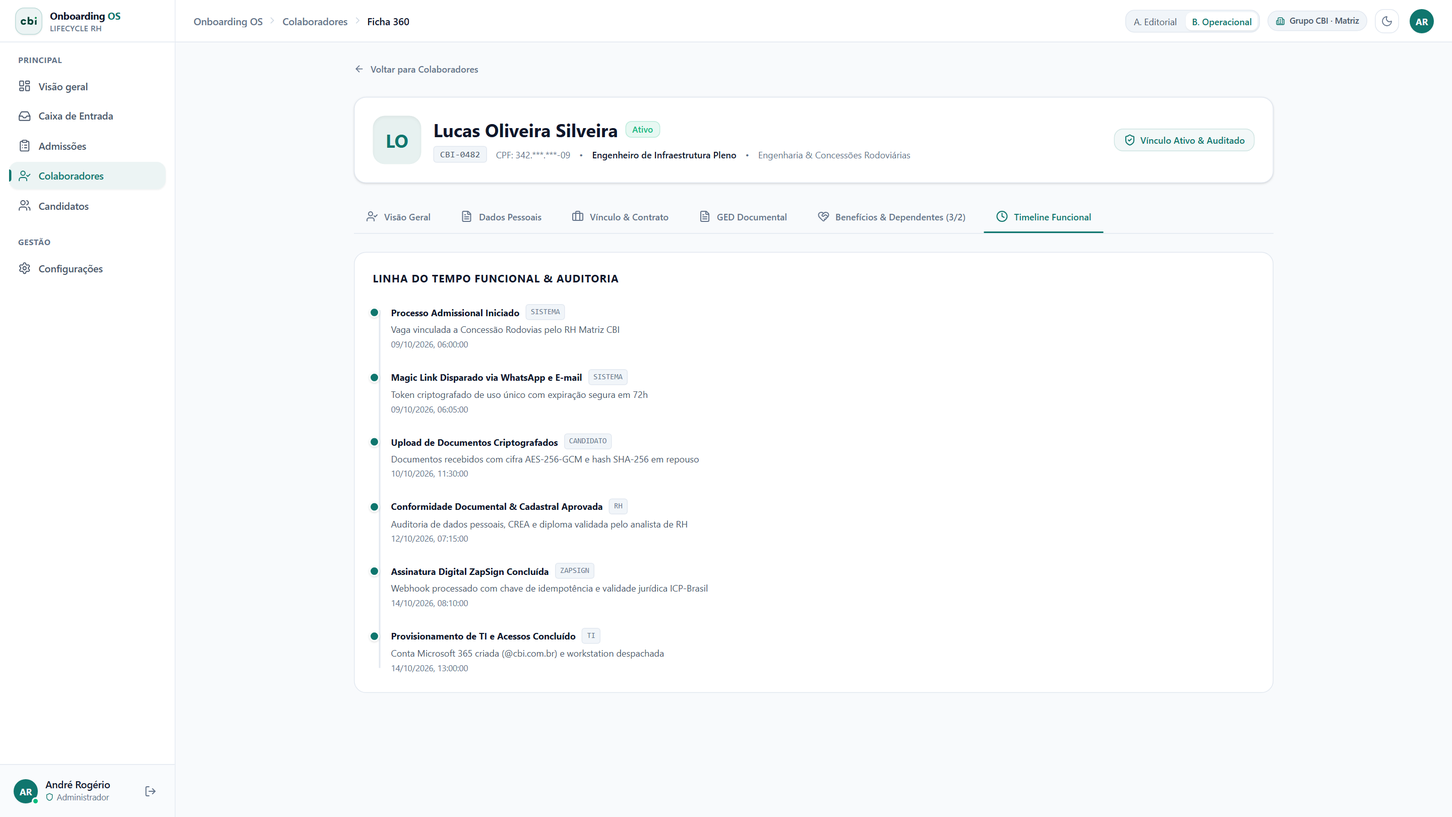
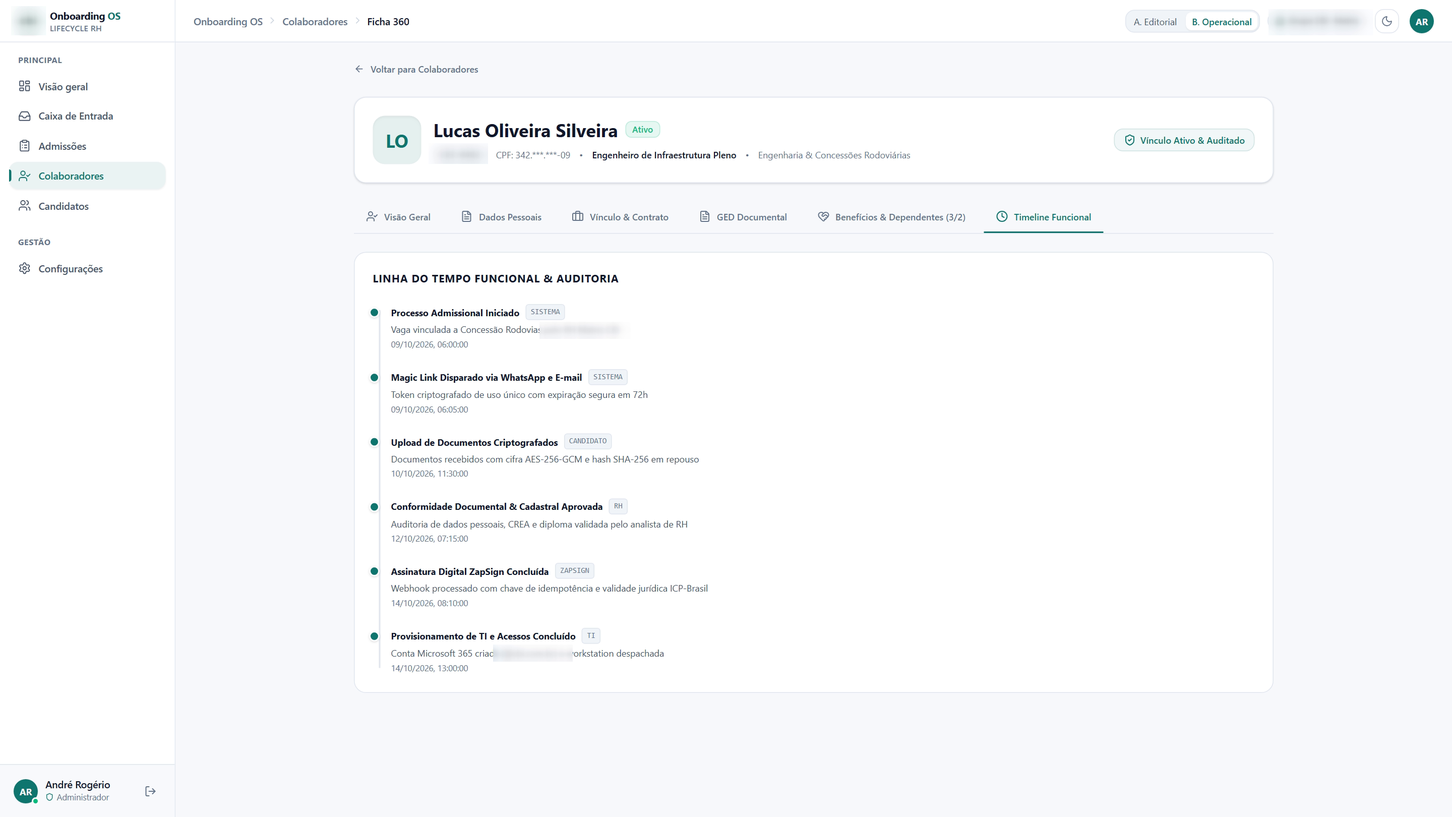
Refine portfolio: verified research/specialization, blurred client names, real mobile UIs for Lifecycle OS and Cribum, remove fake FundiVR frames

diff --git a/index.html b/index.html
@@ -84,6 +84,27 @@
             </div>
         </section>
 
+        <!-- SPECIALIZATION & RESEARCH BAR -->
+        <section id="academic" class="credentials-strip">
+            <div class="container">
+                <div class="credentials-label" data-i18n="acad_label">SPECIALIZATION &amp; APPLIED RESEARCH</div>
+                <div class="credentials-grid">
+                    <div class="credential-pill">
+                        <strong data-i18n="acad_1_title">Digital Twins, 5G, AI, IoT &amp; XR (360h)</strong>
+                        <span data-i18n="acad_1_desc">Specialization completed with 1 of 20 national merit scholarships (MCTI / Softex / UniFacens).</span>
+                    </div>
+                    <div class="credential-pill">
+                        <strong data-i18n="acad_2_title">ICT Technological Residency (TIC 51)</strong>
+                        <span data-i18n="acad_2_desc">Resident Researcher in Smart Cities, Industrial Digital Twins &amp; Acoustic Sensing (UniFacens / MCTI).</span>
+                    </div>
+                    <div class="credential-pill">
+                        <strong data-i18n="acad_3_title">Cognitive Computing Research &amp; Campus Mobile</strong>
+                        <span data-i18n="acad_3_desc">Memory Lens semantic research (Prof. Dr. Fabrício Londero, UniFacens) &bull; Cribum selected for Campus Mobile (Poli-USP / Instituto Claro).</span>
+                    </div>
+                </div>
+            </div>
+        </section>
+
         <!-- PROFILE INTRO SECTION -->
         <section id="profile" class="profile-intro-section">
             <div class="container">
@@ -209,10 +230,10 @@
                     <div class="project-card">
                         <div class="card-inner">
                             <div class="dossier-tab-header">
-                                <span class="dossier-code">📁 DOSSIER // CRIBUM-AUDITRX</span>
-                                <span class="stamp-badge" style="border-color: #ED1C24; color: #ED1C24;">AMD ROCm &middot; AI DEFENSE</span>
+                                <span class="dossier-code">📁 DOSSIER // CRIBUM</span>
+                                <span class="stamp-badge" style="border-color: #10B981; color: #10B981;">CAMPUS MOBILE &middot; POLI-USP</span>
                             </div>
-                            <h4>CRIBUM (AUDITRX)</h4>
+                            <h4>CRIBUM (CLINICAL AI SUITE)</h4>
                             
                             <!-- Interactive Visual Showcase -->
                             <div class="project-visual-preview">
@@ -223,16 +244,18 @@
                                         <span data-i18n="expand_click">Click to expand</span>
                                     </div>
                                 </div>
-                                <div class="preview-thumbs thumbs-3">
-                                    <img src="assets/cribum_audit_dashboard.png" alt="Prescription Inspection" class="thumb-mini active" onclick="window.selectGalleryItemCustom('cribum', 0)" title="Multimodal Prescription Inspection & Confidence Bounding Boxes">
-                                    <img src="assets/cribum_graph_networkx.png" alt="Relational Fraud Graph" class="thumb-mini" onclick="window.selectGalleryItemCustom('cribum', 1)" title="Relational Fraud Multigraph & Anomaly Detection (NetworkX)">
-                                    <img src="assets/cribum_demo.gif" alt="Cribum Workflow Demo" class="thumb-mini" onclick="window.selectGalleryItemCustom('cribum', 2)" title="Multi-Agent Audit & Graph Investigation Walkthrough">
+                                <div class="preview-thumbs thumbs-5">
+                                    <img src="assets/cribum_audit_dashboard.png" alt="Prescription Inspection" class="thumb-mini active" onclick="window.selectGalleryItemCustom('cribum', 0)" title="Desktop: Multimodal Prescription Inspection & Confidence Bounding Boxes">
+                                    <img src="assets/cribum_graph_networkx.png" alt="Relational Fraud Graph" class="thumb-mini" onclick="window.selectGalleryItemCustom('cribum', 1)" title="Desktop: Relational Fraud Multigraph & Anomaly Detection (NetworkX)">
+                                    <img src="assets/cribum_demo.gif" alt="Cribum Workflow Demo" class="thumb-mini" onclick="window.selectGalleryItemCustom('cribum', 2)" title="Desktop: Multi-Agent Audit & Graph Investigation Walkthrough">
+                                    <img src="assets/cribum_mobile_home.png" alt="Cribum Mobile SUS Interface" class="thumb-mini" onclick="window.selectGalleryItemCustom('cribum', 3)" title="Mobile: SUS Digital Prescription & WCAG AAA Accessibility Interface">
+                                    <img src="assets/cribum_mobile_alert.png" alt="Cribum Mobile Dosage Alert" class="thumb-mini" onclick="window.selectGalleryItemCustom('cribum', 4)" title="Mobile: Deterministic Dosage Safety Alert (10 mg Prescribed vs 30 mg Box)">
                                 </div>
                             </div>
 
-                            <p class="desc" data-i18n="proj_cribum_desc">An offline-first pharmaceutical safety assistant selected for Campus Mobile (Instituto Claro / Poli-USP), extended for the AMD Developer Hackathon into a local multi-agent prescription audit system. Combines Open VLMs (Qwen2-VL via vLLM on AMD ROCm) with deterministic clinical safety databases (ANVISA/FDA), 36 automated tests, and NetworkX anomaly graphs.</p>
-                            <div class="tech-stack">Python, FastAPI, React 19, PyTorch, AMD ROCm, vLLM, NetworkX, TypeScript, TailwindCSS</div>
-                            <div class="status" data-i18n="proj_cribum_status">Status: Campus Mobile (Poli-USP / Claro) &bull; AMD Developer Hackathon<br><span style="color: var(--c-ink-muted); font-family: var(--font-body); font-size: 0.85rem; display: block; margin-top: 6px; font-weight: 500;" data-i18n="proj_cribum_status_2">36 Automated Tests &bull; Clinical Safety Engine &bull; Team Inédito Viável</span></div>
+                            <p class="desc" data-i18n="proj_cribum_desc">An offline-first mobile pharmaceutical safety assistant selected for Campus Mobile (Instituto Claro / Poli-USP), paired with a desktop clinical audit workstation. Combines Open VLMs (Qwen2-VL) with deterministic clinical safety validation (ANVISA/FDA), 36 automated tests, and NetworkX anomaly detection graphs.</p>
+                            <div class="tech-stack">Python, FastAPI, React 19, PyTorch, vLLM, NetworkX, TypeScript, TailwindCSS, Mobile PWA</div>
+                            <div class="status" data-i18n="proj_cribum_status">Status: Selected for Campus Mobile (Poli-USP / Instituto Claro)<br><span style="color: var(--c-ink-muted); font-family: var(--font-body); font-size: 0.85rem; display: block; margin-top: 6px; font-weight: 500;" data-i18n="proj_cribum_status_2">Mobile + Desktop Interfaces &bull; 36 Automated Tests &bull; Deterministic Clinical Engine</span></div>
                             <div class="links">
                                 <a href="https://github.com/TheyDreez/cribum" target="_blank" class="btn btn-outline" data-i18n="repo_link">Repository</a>
                             </div>
@@ -263,7 +286,7 @@
                                     <img src="assets/onboarding_v2_ged.png" alt="Encrypted GED Documents" class="thumb-mini" onclick="window.selectGalleryItemCustom('onboarding', 2)" title="AES-256-GCM Encrypted Document Vault (GED)">
                                     <img src="assets/onboarding_v2_auditoria.png" alt="Audit Timeline" class="thumb-mini" onclick="window.selectGalleryItemCustom('onboarding', 3)" title="Functional Audit Trail & ZapSign ICP-Brasil">
                                     <img src="assets/onboarding_v2_beneficios.png" alt="Benefits & Dependents" class="thumb-mini" onclick="window.selectGalleryItemCustom('onboarding', 4)" title="Benefits & Dependents Management">
-                                    <img src="assets/onboarding_v2_login.png" alt="Corporate Multi-Tenant Login" class="thumb-mini" onclick="window.selectGalleryItemCustom('onboarding', 5)" title="Corporate Multi-Tenant Login Portal">
+                                    <img src="assets/onboarding_v2_mobile_portal.png" alt="Mobile Candidate Portal" class="thumb-mini" onclick="window.selectGalleryItemCustom('onboarding', 5)" title="Mobile Candidate Portal: Status, Document Upload & Admission Track">
                                 </div>
                             </div>
 
@@ -319,22 +342,6 @@
                                 <span class="stamp-badge" style="border-color: #C58B17; color: #C58B17;">DELIVERED</span>
                             </div>
                             <h4>FUNDIVR</h4>
-                            <!-- Interactive Visual Showcase -->
-                            <div class="project-visual-preview">
-                                <div class="preview-hero-wrapper" onclick="window.openGalleryLightbox('fundivr', 0)" title="Click to expand / Clique para ampliar">
-                                    <img src="assets/fundivr_frame_3.png" alt="FundiVR - Molten Aluminum Pour & Live Safety HUD" class="preview-hero-img" id="fundivr-preview-img">
-                                    <div class="expand-badge">
-                                        <span>⛶</span>
-                                        <span data-i18n="expand_click">Click to expand</span>
-                                    </div>
-                                </div>
-                                <div class="preview-thumbs">
-                                    <img src="assets/fundivr_frame_3.png" alt="Molten Pour Safety HUD" class="thumb-mini active" onclick="window.selectGalleryItemCustom('fundivr', 0)" title="Molten Aluminum Level & Safe Operation HUD">
-                                    <img src="assets/fundivr_frame_1.png" alt="Thermal Risk Zone" class="thumb-mini" onclick="window.selectGalleryItemCustom('fundivr', 1)" title="Industrial Furnace Thermal Risk & Restricted Area HUD">
-                                    <img src="assets/fundivr_frame_2.png" alt="Skimming Telemetry" class="thumb-mini" onclick="window.selectGalleryItemCustom('fundivr', 2)" title="Real-Time Skimming Progress Telemetry (82%)">
-                                    <img src="assets/fundivr_frame_4.png" alt="Furnace Cockpit Overview" class="thumb-mini" onclick="window.selectGalleryItemCustom('fundivr', 3)" title="Full Industrial Furnace Simulator Cockpit">
-                                </div>
-                            </div>
                             <p class="desc" data-i18n="proj4_desc">A web-based VR simulator for training aluminum furnace operators. Features a full operational training workflow (PPE check, charge inspection, thermal control, skimming, emergency shutdown), real-time telemetry via WebSocket, automated performance scoring with weighted evaluation, and a resilient demo mode for presentations without database dependencies.</p>
                             <div class="tech-stack">React, TypeScript, Fastify, PostgreSQL, Prisma, WebSocket, Docker Compose, pnpm monorepo, Vitest</div>
                             <div class="status" data-i18n="proj4_status">Status: Delivered<br><span style="color: var(--c-ink-muted); font-family: var(--font-body); font-size: 0.85rem; display: block; margin-top: 6px; font-weight: 500;" data-i18n="proj4_status_2">Digital Twin & 5G Residency (TIC 51)</span></div>
@@ -405,7 +412,7 @@
                             </div>
                             <div class="tech-item">
                                 <strong data-i18n="tech4_cat">Applied AI & Cognitive Systems</strong>
-                                <span data-i18n="tech4_val">Google Gemini API, AMD ROCm, Vision-Language Models (VLM), structured outputs, semantic retrieval, vector embeddings, knowledge graphs, NetworkX, episodic memory, Three.js/React Three Fiber, WebGL shaders.</span>
+                                <span data-i18n="tech4_val">Google Gemini API, Vision-Language Models (VLM), structured outputs, semantic retrieval, vector embeddings, knowledge graphs, NetworkX, episodic memory, Three.js/React Three Fiber, WebGL shaders.</span>
                             </div>
                             <div class="tech-item">
                                 <strong data-i18n="tech5_cat">Languages &amp; Cross-Cultural Communication</strong>
@@ -523,6 +530,13 @@
                 beyond_p1: "Outside of engineering, I enjoy balancing analytical work with creative and social spaces: I follow electronic music, participate in a book club in Sorocaba, and play tabletop RPGs.",
                 beyond_p2: "I'm also currently going through the process of obtaining Spanish citizenship through my grandmother, who was born in Spain. One of my personal goals is to visit Calera de León, where she was born, and explore that part of my family history firsthand.",
                 beyond_p3: "Whether discussing a book, building a fictional world around a table, or tracing my family roots across generations, I enjoy discovering different environments, ideas, and perspectives.",
+                acad_label: "SPECIALIZATION & APPLIED RESEARCH",
+                acad_1_title: "Digital Twins, 5G, AI, IoT & XR (360h)",
+                acad_1_desc: "Specialization completed with 1 of 20 national merit scholarships (MCTI / Softex / UniFacens).",
+                acad_2_title: "ICT Technological Residency (TIC 51)",
+                acad_2_desc: "Resident Researcher in Smart Cities, Industrial Digital Twins & Acoustic Sensing (UniFacens / MCTI).",
+                acad_3_title: "Cognitive Computing Research & Campus Mobile",
+                acad_3_desc: "Memory Lens semantic research (Prof. Dr. Fabrício Londero, UniFacens) &bull; Cribum selected for Campus Mobile (Poli-USP / Instituto Claro).",
                 proj_vaguinhas_desc: "A 24/7 production WhatsApp bot and JSON API aggregating tech roles across 16 Brazilian and international sources (Ashby, Greenhouse, Lever, YC, HN, VTEX, We Work Remotely, GitHub, and recruiter channels). Engineered with a durable PostgreSQL Outbox (FOR UPDATE SKIP LOCKED), Traffic Guard concurrency/RAM admission control, real-time expired-job validation (JSON-LD & ATS probes), and 27 automated tests.",
                 proj_vaguinhas_status: "Status: Live in Production (24/7 on Render + Supabase)",
                 proj_vaguinhas_status_2: "16 Sources &bull; 27 Automated Tests &bull; Single-Message UX &bull; Anti-Trap Filtering",
@@ -539,9 +553,9 @@
                 proj2_status_2: "Validated in corporate pilot with 22 users",
                 confidential_notice_2: "🔒 UI Dashboards & Demos sanitized for public showcase (LGPD/Confidentiality protected).",
                 repo_link_2: "Repository",
-                proj_cribum_desc: "An offline-first pharmaceutical safety assistant selected for Campus Mobile (Instituto Claro / Poli-USP), extended for the AMD Developer Hackathon into a local multi-agent prescription audit system. Combines Open VLMs (Qwen2-VL via vLLM on AMD ROCm) with deterministic clinical safety databases (ANVISA/FDA), 36 automated tests, and NetworkX anomaly graphs.",
-                proj_cribum_status: "Status: Campus Mobile (Poli-USP / Claro) &bull; AMD Developer Hackathon",
-                proj_cribum_status_2: "36 Automated Tests &bull; Clinical Safety Engine &bull; Team Inédito Viável",
+                proj_cribum_desc: "An offline-first mobile pharmaceutical safety assistant selected for Campus Mobile (Instituto Claro / Poli-USP), paired with a desktop clinical audit workstation. Combines Open VLMs (Qwen2-VL) with deterministic clinical safety validation (ANVISA/FDA), 36 automated tests, and NetworkX anomaly detection graphs.",
+                proj_cribum_status: "Status: Selected for Campus Mobile (Poli-USP / Instituto Claro)",
+                proj_cribum_status_2: "Mobile + Desktop Interfaces &bull; 36 Automated Tests &bull; Deterministic Clinical Engine",
                 proj3_desc: "A cognitive computing platform combining semantic search with vector embeddings, knowledge graphs, episodic memory clustering, forgetting mechanisms (Ebbinghaus curve), behavioral analysis via Identity Engine, and a 3D spatial interface with custom WebGL shaders. Features 16 API routes, IDOR security tests, and a Chief Organism rendered with React Three Fiber.",
                 proj3_status: "Status: Active Research",
                 proj3_status_2: "Academic research under Prof. Dr. Fabrício Londero (UniFacens) &bull; Targeting submission to ACDSA",
@@ -569,7 +583,7 @@
                 tech3_cat: "Cloud, Data & Security",
                 tech3_val: "Google Cloud (Cloud Run, Cloud SQL), PostgreSQL (Citizen Databases / Metropolitan Concessions), Supabase, Firebase, Redis, Docker, PostgreSQL RLS, AES-256-GCM encryption, strict LGPD compliance.",
                 tech4_cat: "Applied AI & Cognitive Systems",
-                tech4_val: "Google Gemini API, AMD ROCm, Vision-Language Models (VLM), structured outputs, semantic retrieval, vector embeddings, knowledge graphs, NetworkX, episodic memory, Three.js/React Three Fiber, WebGL shaders.",
+                tech4_val: "Google Gemini API, Vision-Language Models (VLM), structured outputs, semantic retrieval, vector embeddings, knowledge graphs, NetworkX, episodic memory, Three.js/React Three Fiber, WebGL shaders.",
                 tech5_cat: "Languages & Cross-Cultural Communication",
                 tech5_val: "English (C1+ / Fluent &bull; 2-Year Full Immersion Happy & Co. [Speaking 4.5/5, Listening 4.4/5] &bull; Former English Host & Mentor), Spanish (Intermediate / Technical Communication), Portuguese (Native).",
                 eng_h2: "ENGINEERING APPROACH",
@@ -624,6 +638,13 @@
                 beyond_p1: "Fora da engenharia, gosto de equilibrar o trabalho analítico com espaços criativos e sociais: acompanho música eletrônica, faço parte de um clube do livro em Sorocaba e jogo RPG de mesa.",
                 beyond_p2: "Também estou passando pelo processo de obtenção de cidadania espanhola através da minha avó, que nasceu na Espanha. Um dos meus objetivos pessoais é visitar Calera de León, onde ela nasceu, e explorar essa parte da história da minha família pessoalmente.",
                 beyond_p3: "Seja discutindo um livro, construindo um mundo ficcional ao redor de uma mesa ou traçando as raízes da minha família por gerações, gosto de explorar diferentes ambientes, ideias e perspectivas.",
+                acad_label: "ESPECIALIZAÇÃO & PESQUISA APLICADA",
+                acad_1_title: "Gêmeo Digital em 5G, IA, IoT e XR (360h)",
+                acad_1_desc: "Especialização concluída com 1 das 20 bolsas de mérito nacional (MCTI / Softex / UniFacens).",
+                acad_2_title: "Residência Tecnológica em TIC 51",
+                acad_2_desc: "Pesquisador Residente em Cidades Inteligentes, Gêmeos Digitais e Sensoriamento Acústico (UniFacens / MCTI).",
+                acad_3_title: "Pesquisa em Computação Cognitiva & Campus Mobile",
+                acad_3_desc: "Pesquisa do Memory Lens (Prof. Dr. Fabrício Londero, UniFacens) &bull; Cribum selecionado para o Campus Mobile (Poli-USP / Instituto Claro).",
                 proj_vaguinhas_desc: "Bot de WhatsApp e API JSON em produção 24/7 que agrega vagas tech de 16 fontes brasileiras e internacionais (Ashby, Greenhouse, Lever, YC, HN, VTEX, We Work Remotely, GitHub e canais de recrutamento). Construído com fila Outbox durável no PostgreSQL (FOR UPDATE SKIP LOCKED), Traffic Guard contra concorrência/memória, validador de vaga encerrada em tempo real (JSON-LD e ATS) e 27 testes automatizados.",
                 proj_vaguinhas_status: "Status: Em Produção 24/7 (Render + Supabase)",
                 proj_vaguinhas_status_2: "16 Fontes &bull; 27 Testes Automatizados &bull; UX em Mensagem Única &bull; Filtro Anti-Armadilha",
@@ -640,9 +661,9 @@
                 proj2_status_2: "Validado em ambiente piloto corporativo com 22 usuários",
                 confidential_notice_2: "🔒 Dashboards de UI & Demos disponíveis para apresentação durante entrevistas ao vivo (protegido por NDA).",
                 repo_link_2: "Repositório",
-                proj_cribum_desc: "Assistente offline-first de segurança farmacêutica selecionado para o Campus Mobile (Instituto Claro / Poli-USP) e expandido no AMD Developer Hackathon para um sistema multiagente de auditoria de receitas. Combina VLMs abertos (Qwen2-VL via vLLM no AMD ROCm) com validação clínica determinística (ANVISA/FDA), 36 testes automatizados e grafos de anomalia NetworkX.",
-                proj_cribum_status: "Status: Selecionado para o Campus Mobile (Poli-USP / Claro) &bull; AMD Developer Hackathon",
-                proj_cribum_status_2: "36 Testes Automatizados &bull; Motor Clínico Determinístico &bull; Time Inédito Viável",
+                proj_cribum_desc: "Assistente mobile offline-first de segurança farmacêutica selecionado para o Campus Mobile (Instituto Claro / Poli-USP), integrado a uma estação desktop de auditoria clínica. Combina VLMs abertos (Qwen2-VL) com validação clínica determinística (ANVISA/FDA), 36 testes automatizados e grafos de detecção de anomalias com NetworkX.",
+                proj_cribum_status: "Status: Selecionado para o Campus Mobile (Poli-USP / Instituto Claro)",
+                proj_cribum_status_2: "Interfaces Mobile + Desktop &bull; 36 Testes Automatizados &bull; Motor Clínico Determinístico",
                 proj3_desc: "Uma plataforma de computação cognitiva combinando busca semântica com embeddings vetoriais, grafos de conhecimento, agrupamento de memória episódica, mecanismos de esquecimento (curva de Ebbinghaus), análise comportamental via Identity Engine, e uma interface espacial 3D com shaders WebGL customizados. Possui 16 rotas de API, testes de segurança IDOR e um Organismo Chefe renderizado com React Three Fiber.",
                 proj3_status: "Status: Pesquisa Ativa",
                 proj3_status_2: "Pesquisa acadêmica sob o Prof. Dr. Fabrício Londero (UniFacens) &bull; Alvo de submissão para o ACDSA",
@@ -670,7 +691,7 @@
                 tech3_cat: "Nuvem, Dados & Segurança",
                 tech3_val: "Google Cloud (Cloud Run, Cloud SQL), PostgreSQL (Bancos de Cidadãos / Concessões Metropolitanas), Supabase, Firebase, Redis, Docker, PostgreSQL RLS, criptografia AES-256-GCM, rigorosa conformidade LGPD.",
                 tech4_cat: "IA Aplicada & Sistemas Cognitivos",
-                tech4_val: "Google Gemini API, AMD ROCm, Vision-Language Models (VLM), saídas estruturadas, recuperação semântica, embeddings vetoriais, grafos de conhecimento, NetworkX, memória episódica, Three.js/React Three Fiber, shaders WebGL.",
+                tech4_val: "Google Gemini API, Vision-Language Models (VLM), saídas estruturadas, recuperação semântica, embeddings vetoriais, grafos de conhecimento, NetworkX, memória episódica, Three.js/React Three Fiber, shaders WebGL.",
                 tech5_cat: "Idiomas & Comunicação Multicultural",
                 tech5_val: "Inglês (C1+ / Fluente &bull; Imersão Total de 2 Anos na Happy & Co. [Speaking 4,5/5, Listening 4,4/5] &bull; Ex-Host e Mentor no Clube Poliglota), Espanhol (Intermediário / Comunicação Técnica), Português (Nativo).",
                 eng_h2: "ABORDAGEM DE ENGENHARIA",
@@ -744,18 +765,28 @@
             cribum: [
                 {
                     src: 'assets/cribum_audit_dashboard.png',
-                    titleEn: 'Cribum / AuditRx - Multimodal Prescription Inspection & Confidence Bounding Boxes',
-                    titlePt: 'Cribum / AuditRx - Inspeção Multimodal de Receitas & Bounding Boxes com Grau de Confiança'
+                    titleEn: 'Desktop Audit Workstation - Multimodal Prescription Inspection & Confidence Bounding Boxes',
+                    titlePt: 'Estação Desktop de Auditoria - Inspeção Multimodal de Receitas & Bounding Boxes'
                 },
                 {
                     src: 'assets/cribum_graph_networkx.png',
-                    titleEn: 'Multi-Claim Relational Fraud Multigraph (NetworkX & Anomaly Detection)',
-                    titlePt: 'Multigrafo Relacional de Fraude em Sinistros (NetworkX & Detecção de Anomalias)'
+                    titleEn: 'Desktop Audit Workstation - Multi-Claim Relational Fraud Multigraph (NetworkX)',
+                    titlePt: 'Estação Desktop de Auditoria - Multigrafo Relacional de Fraude (NetworkX)'
                 },
                 {
                     src: 'assets/cribum_demo.gif',
-                    titleEn: 'Multi-Agent Prescription Audit & Network Graph Investigation Walkthrough',
-                    titlePt: 'Auditoria Multiagente de Receitas & Investigação em Grafo'
+                    titleEn: 'Desktop Audit Workstation - Multi-Agent Prescription Audit Walkthrough',
+                    titlePt: 'Estação Desktop de Auditoria - Fluxo de Auditoria Multiagente'
+                },
+                {
+                    src: 'assets/cribum_mobile_home.png',
+                    titleEn: 'Mobile App - SUS Digital Prescription Verification & WCAG 2.2 AAA Accessibility',
+                    titlePt: 'App Mobile - Conferência de Receita Digital SUS & Acessibilidade WCAG 2.2 AAA'
+                },
+                {
+                    src: 'assets/cribum_mobile_alert.png',
+                    titleEn: 'Mobile App - Deterministic Dosage Safety Alert (10 mg Prescribed vs 30 mg Box)',
+                    titlePt: 'App Mobile - Alerta Determinístico de Dosagem (Receita 10 mg vs Caixa 30 mg)'
                 }
             ],
             onboarding: [
@@ -785,31 +816,9 @@
                     titlePt: 'Gestão de Benefícios & Dependentes por Concessão'
                 },
                 {
-                    src: 'assets/onboarding_v2_login.png',
-                    titleEn: 'Multi-Tenant Enterprise Authentication Portal (Grupo CBI)',
-                    titlePt: 'Portal Corporativo de Autenticação Multi-Tenant (Grupo CBI)'
-                }
-            ],
-            fundivr: [
-                {
-                    src: 'assets/fundivr_frame_3.png',
-                    titleEn: 'FundiVR - Molten Aluminum Pour & Holographic Level Safety HUD (68%)',
-                    titlePt: 'FundiVR - Vazamento de Alumínio Líquido & HUD Holográfico de Segurança (68%)'
-                },
-                {
-                    src: 'assets/fundivr_frame_1.png',
-                    titleEn: 'Industrial Furnace Floor - Thermal Risk & Restricted Zone VR Telemetry (290 °C)',
-                    titlePt: 'Chão de Fábrica em VR - Alerta de Risco Térmico & Área Restrita (290 °C)'
-                },
-                {
-                    src: 'assets/fundivr_frame_2.png',
-                    titleEn: 'Furnace Skimming Procedure - Real-Time Coverage Evaluation (82%)',
-                    titlePt: 'Operação de Escumação - Avaliação de Cobertura em Tempo Real (82%)'
-                },
-                {
-                    src: 'assets/fundivr_frame_4.png',
-                    titleEn: 'Industrial Furnace Digital Twin - Full Operator Telemetry Cockpit',
-                    titlePt: 'Gêmeo Digital de Forno Industrial - Cockpit Completo de Telemetria'
+                    src: 'assets/onboarding_v2_mobile_portal.png',
+                    titleEn: 'Mobile Candidate Portal - Document Upload, Status & Admission Track',
+                    titlePt: 'Portal Mobile do Candidato - Envio de Documentos, Status & Trilha de Admissão'
                 }
             ],
             memoryLens: [
@@ -840,8 +849,7 @@
             itsm: 'cbi-preview-img',
             cribum: 'cribum-preview-img',
             onboarding: 'onboarding-preview-img',
-            memoryLens: 'memorylens-preview-img',
-            fundivr: 'fundivr-preview-img'
+            memoryLens: 'memorylens-preview-img'
         };
 
         const itsmGallery = galleries.itsm; // Backward compatibility

diff --git a/style.css b/style.css
@@ -941,6 +941,56 @@ section {
 .preview-thumbs.thumbs-6 {
     grid-template-columns: repeat(3, 1fr);
 }
+.preview-thumbs.thumbs-5 {
+    grid-template-columns: repeat(5, 1fr);
+}
+.credentials-strip {
+    background-color: var(--c-paper-dark);
+    border-top: 1px solid var(--c-border);
+    border-bottom: 1px solid var(--c-border);
+    padding: 22px 0;
+    width: 100%;
+}
+.credentials-label {
+    font-family: var(--font-mono);
+    font-size: 0.72rem;
+    font-weight: 700;
+    letter-spacing: 1.4px;
+    color: var(--c-ink-muted);
+    margin-bottom: 12px;
+    text-transform: uppercase;
+}
+.credentials-grid {
+    display: grid;
+    grid-template-columns: repeat(3, 1fr);
+    gap: 14px;
+}
+.credential-pill {
+    background: var(--c-paper);
+    border: 1px solid var(--c-border);
+    border-left: 3px solid var(--c-dunder-blue);
+    padding: 12px 14px;
+    display: flex;
+    flex-direction: column;
+    gap: 4px;
+    box-shadow: 2px 2px 0px rgba(0,0,0,0.04);
+}
+.credential-pill strong {
+    font-family: var(--font-mono);
+    font-size: 0.78rem;
+    color: #1A1715;
+    line-height: 1.3;
+}
+.credential-pill span {
+    font-size: 0.76rem;
+    color: var(--c-ink-muted);
+    line-height: 1.4;
+}
+@media (max-width: 850px) {
+    .credentials-grid {
+        grid-template-columns: 1fr;
+    }
+}
 .thumb-mini {
     width: 100%;
     height: 44px;
